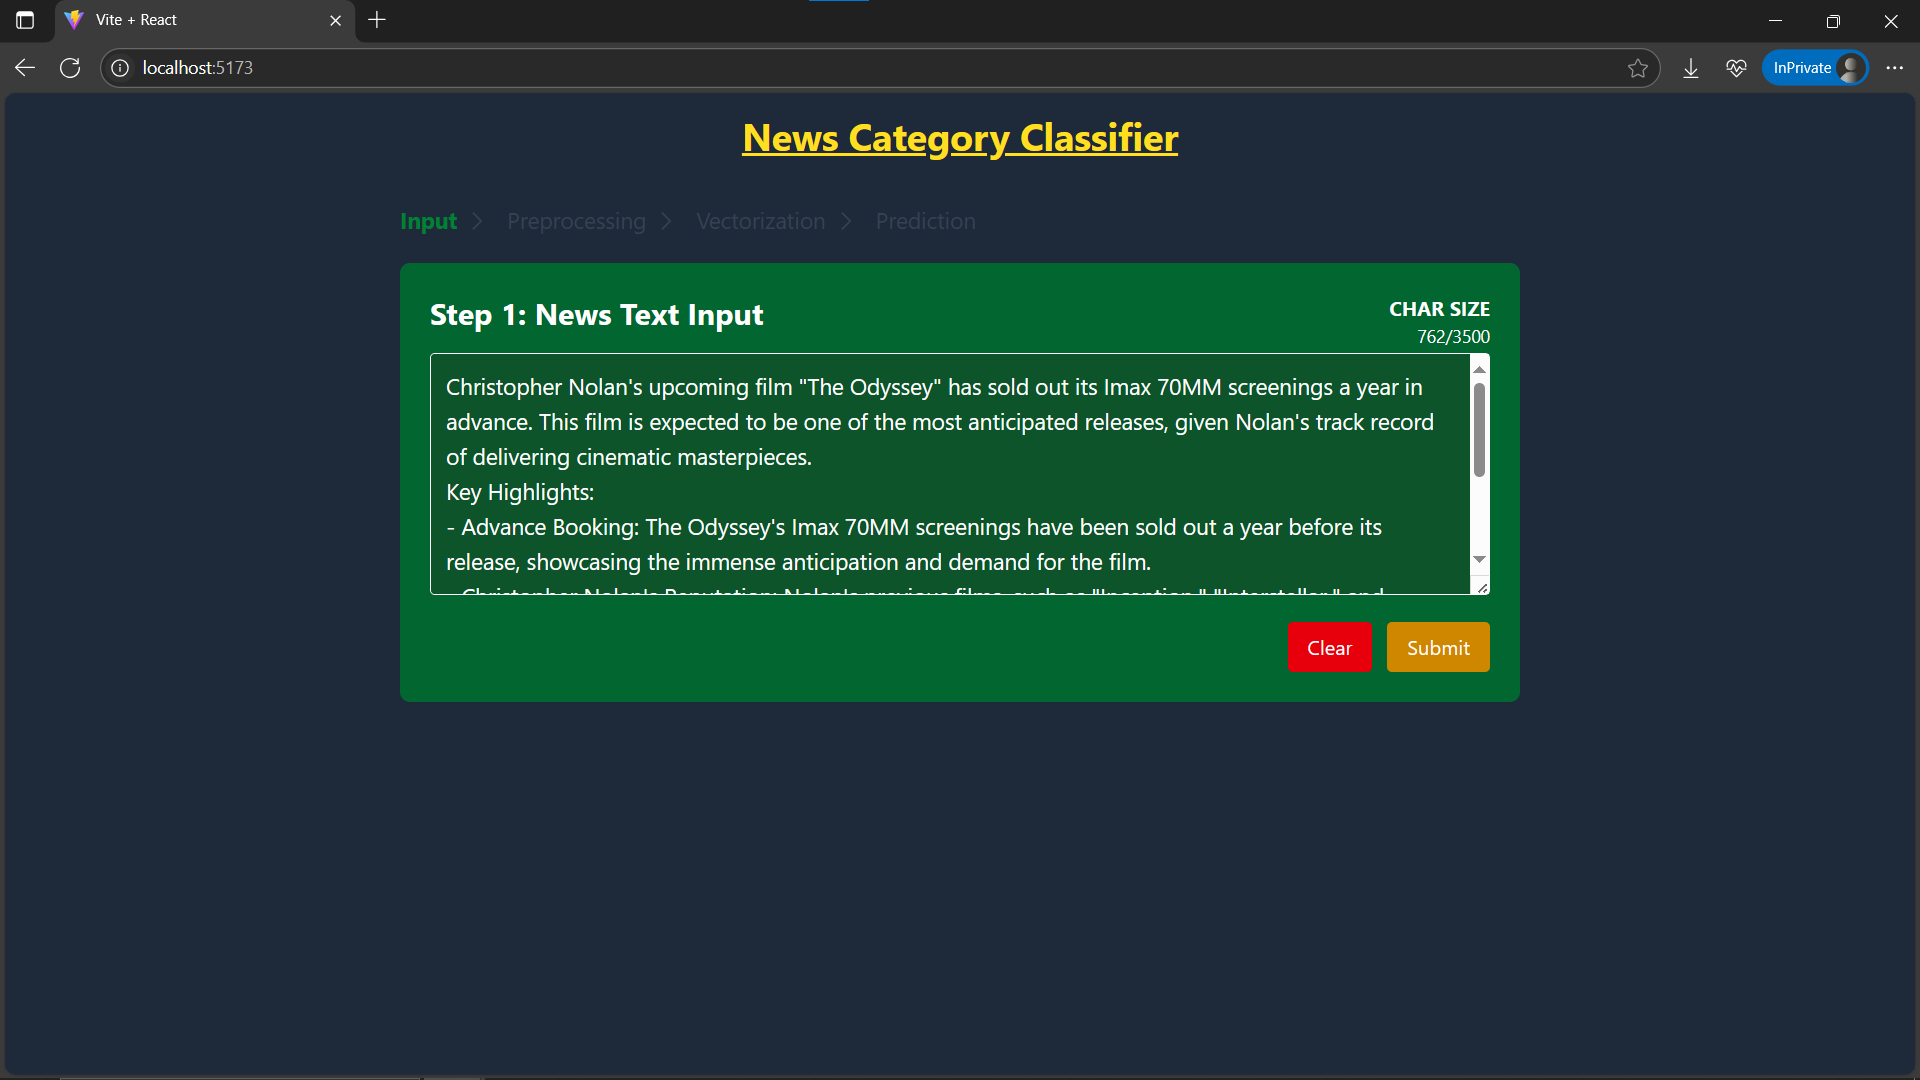
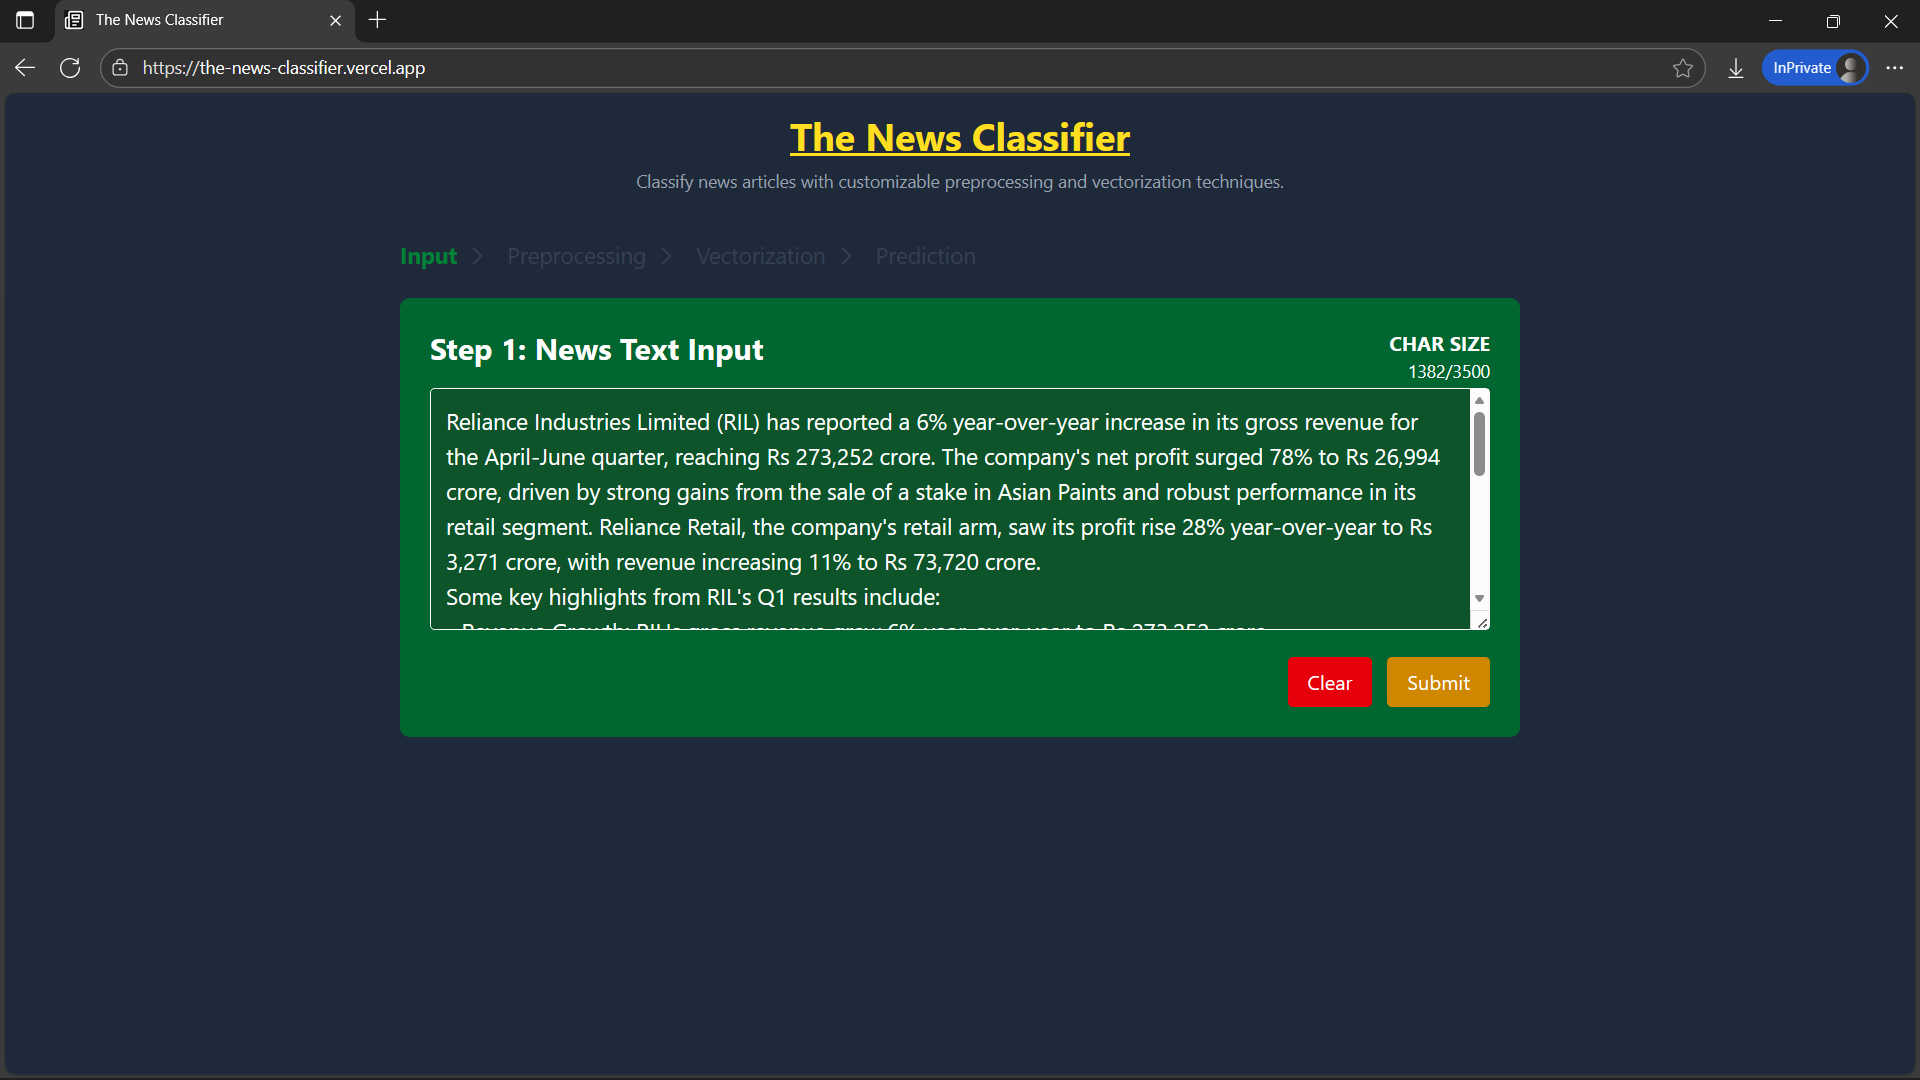
Updated Readme

diff --git a/README.md b/README.md
@@ -1,8 +1,8 @@
-# 📰 📰 NewsClassifier
+# 📰 The News Classifier
 
 A web-based application that classifies news articles into categories like **Business**, **Politics**, **Sports**, **Technology** and **Entertainment** using various NLP techniques and machine learning models.
 
-🚀 Live Demo: [View App](https://news-classifier.vercel.app)
+🚀 Live Demo: [View App](https://the-news-classifier.vercel.app/)
 
 ---
 
@@ -10,7 +10,7 @@ A web-based application that classifies news articles into categories like **Bus
 
 - 🔍 Preprocessing customization (lowercase, stopwords removal, stemming, etc.)
 - 🧠 Choose from 4 vectorization methods: One-Hot, BoW, TF-IDF, N-Gram
-- ⚙ Backend predictions using trained ML models (Logistic Regression)
+- ⚙ Backend predictions using trained ML model (Logistic Regression)
 - 📊 Confidence scores & ordered probability outputs
 - 💡 Smart warnings for preprocessing compatibility
 - 🧪 Lightweight UI built with React + TailwindCSS
@@ -38,7 +38,7 @@ A web-based application that classifies news articles into categories like **Bus
 | One-Hot    | Binary presence of tokens |
 | BoW        | Token frequency counts |
 | TF-IDF     | Frequency scaled by importance |
-| N-Gram     | Captures word sequences (e.g., bigrams) |
+| N-Gram     | Captures word sequences (e.g. bigrams) |
 
 ---
 
@@ -70,3 +70,4 @@ python app.py
 cd frontend
 npm install
 npm run dev
+```
